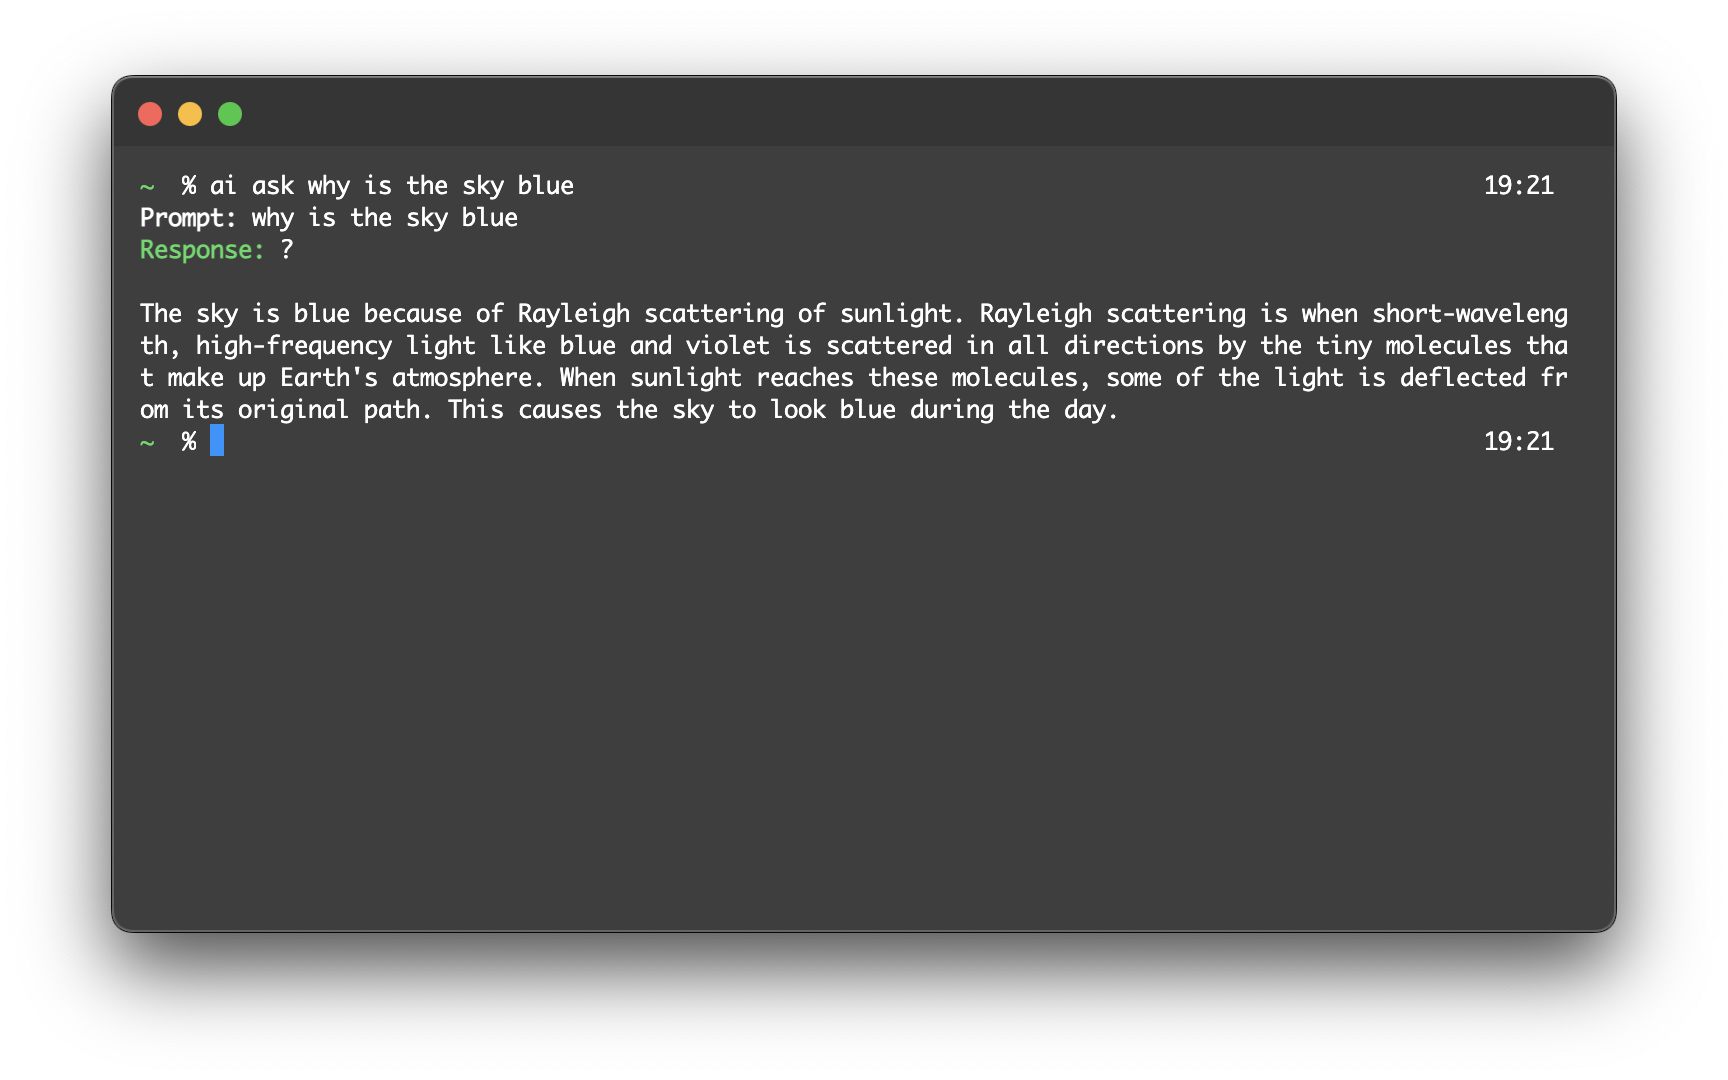
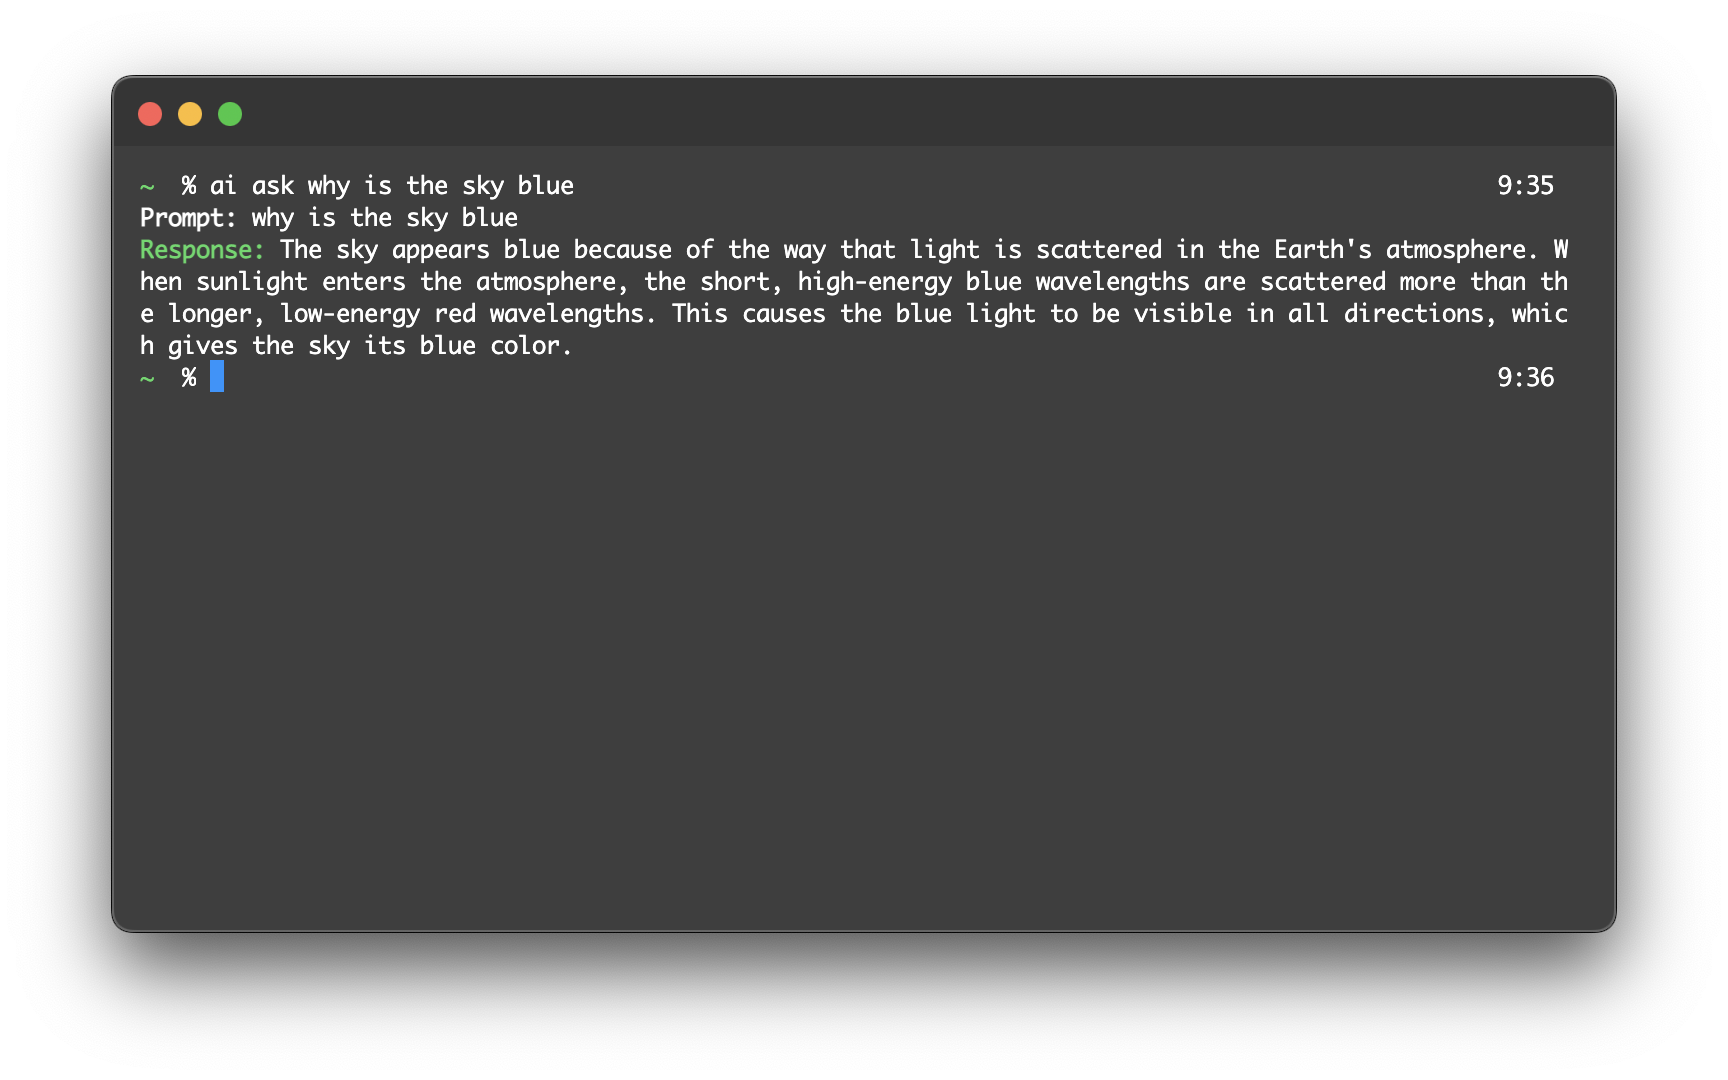
update images

Changed region(s): [[0.0625, 0.2139, 0.9062, 0.4278], [0.8438, 0.3972, 0.9062, 0.4278], [0.875, 0.1528, 0.9062, 0.1833]]

diff --git a/README.md b/README.md
@@ -16,6 +16,12 @@ This mode generates a CLI command from a prompt. You can then run this command o
 
 ![Generate CLI command](./assets/example2.png)
 
+### Conversational
+
+Start a chat conversation with ChatGPT.
+
+![Conversational](./assets/example3.png)
+
 ## Installation
 
 ### Manual
